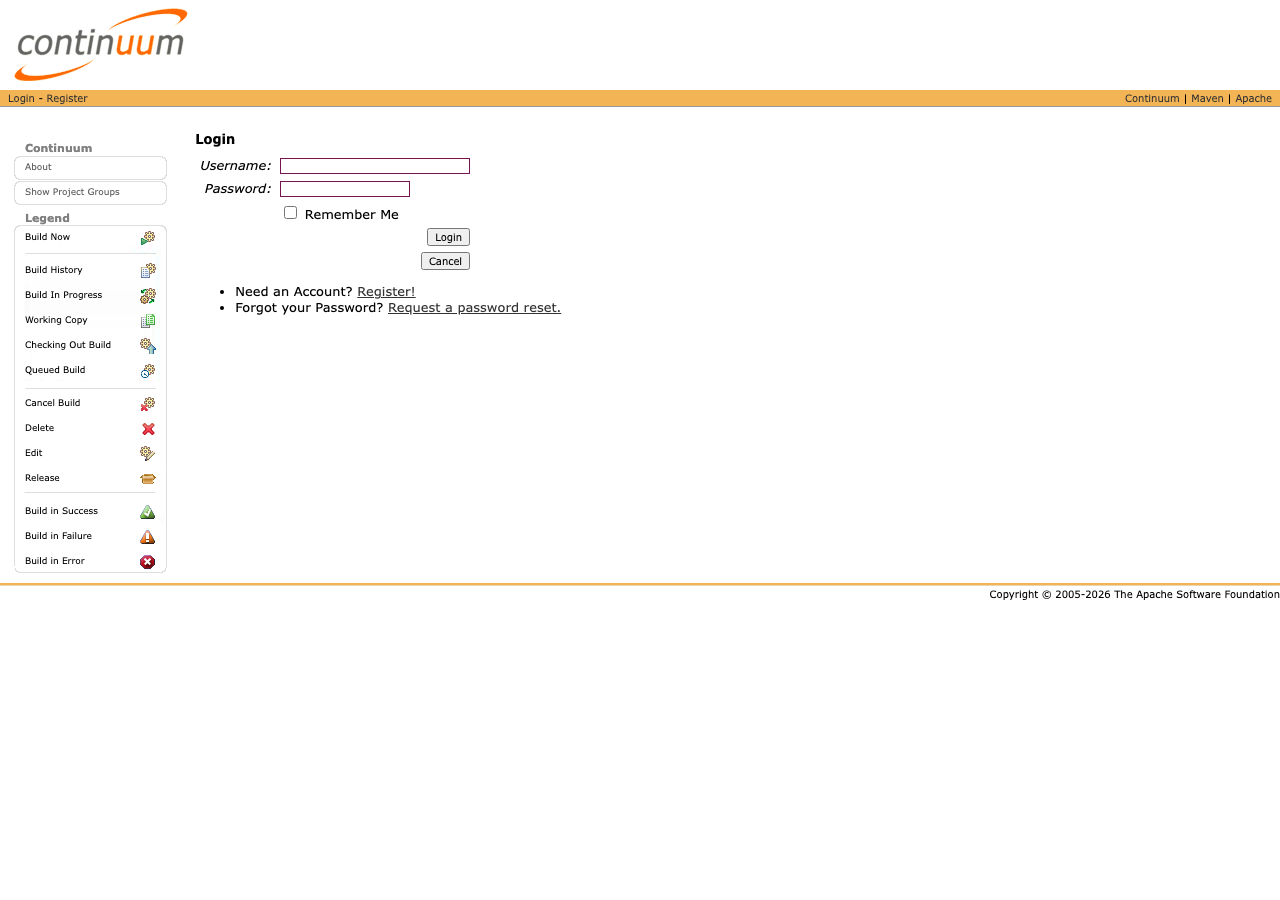
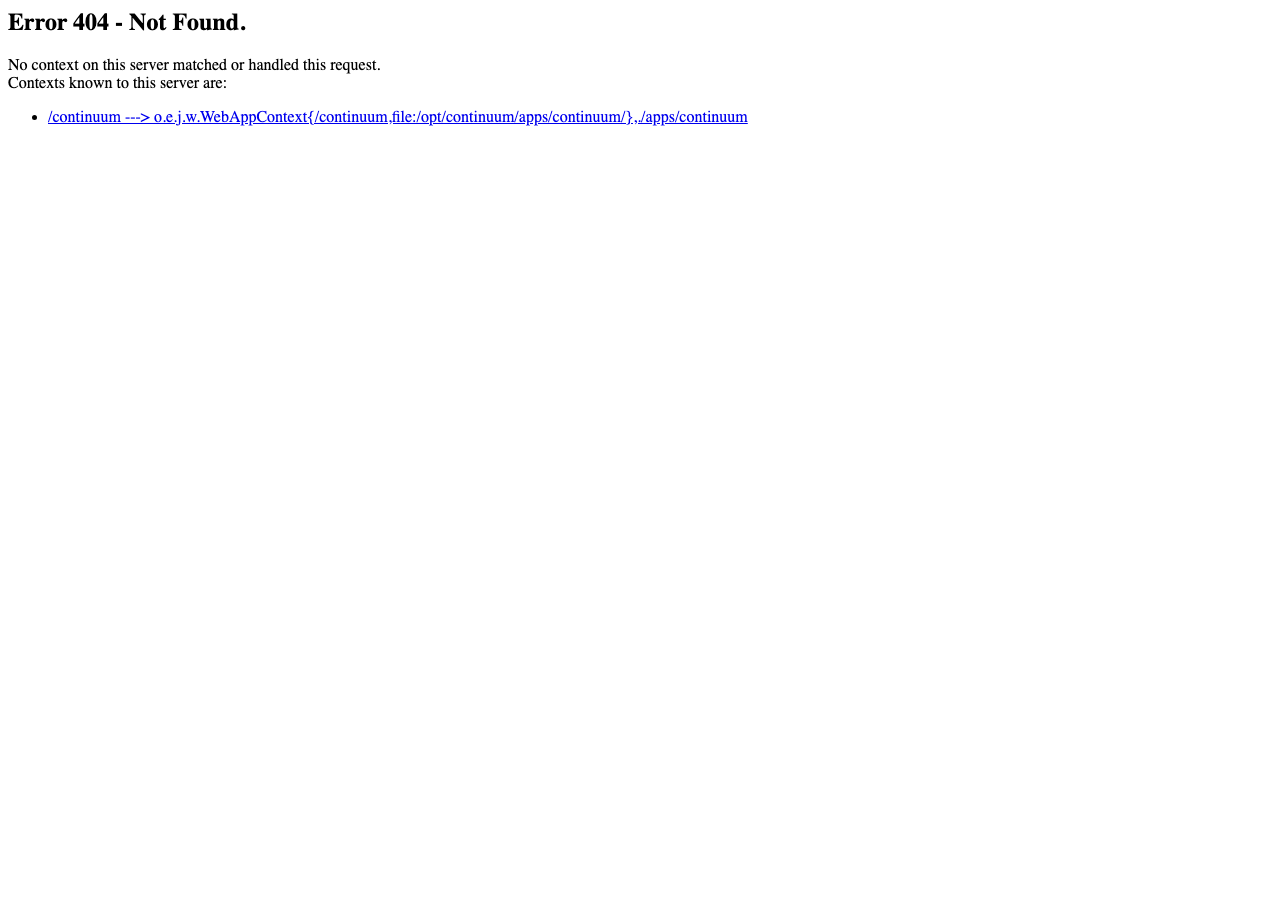
Update CVE-2016-15057 lab docs and screenshot

diff --git a/CVE-2016-15057/README.md b/CVE-2016-15057/README.md
@@ -1,5 +1,21 @@
 # CVE-2016-15057 - Apache Continuum Unauthenticated Command Injection
 
+<!-- CODEX:RUNTIME_PORT:START -->
+## Verified Runtime Port (Auto-Generated)
+
+- Primary host port (latest verify): `18080`
+- Generated at: `2026-03-02T16:39:17Z`
+- Source: `runtime-ports.env`
+
+```bash
+python3 poc/poc.py localhost 18080
+```
+<!-- CODEX:RUNTIME_PORT:END -->
+
+
+
+
+
 > **Exploit Intelligence Platform** | [exploit-intel.com](https://exploit-intel.com) | [@exploit_intel](https://x.com/exploit_intel)
 
 ## Vulnerability Summary

diff --git a/CVE-2016-15057/CVE-LAB.md b/CVE-2016-15057/CVE-LAB.md
@@ -1,5 +1,21 @@
 # CVE-2016-15057 Lab
 
+<!-- CODEX:RUNTIME_PORT:START -->
+## Verified Runtime Port (Auto-Generated)
+
+- Primary host port (latest verify): `18080`
+- Generated at: `2026-03-02T16:39:17Z`
+- Source: `runtime-ports.env`
+
+```bash
+python3 poc/poc.py localhost 18080
+```
+<!-- CODEX:RUNTIME_PORT:END -->
+
+
+
+
+
 > Apache Continuum 1.4.2 — Unauthenticated Command Injection
 
 ## Vectors
